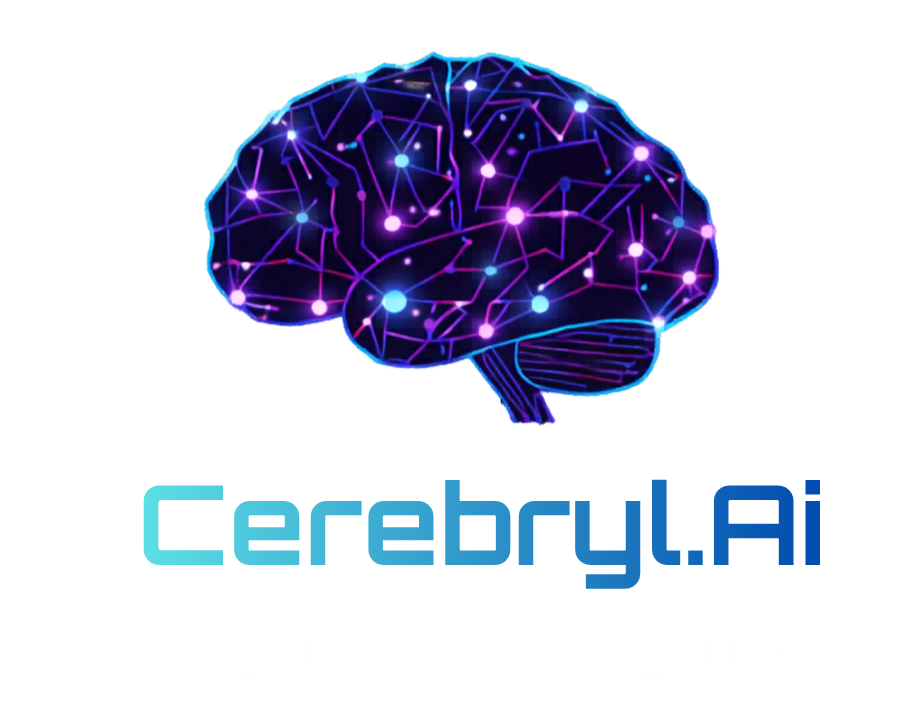
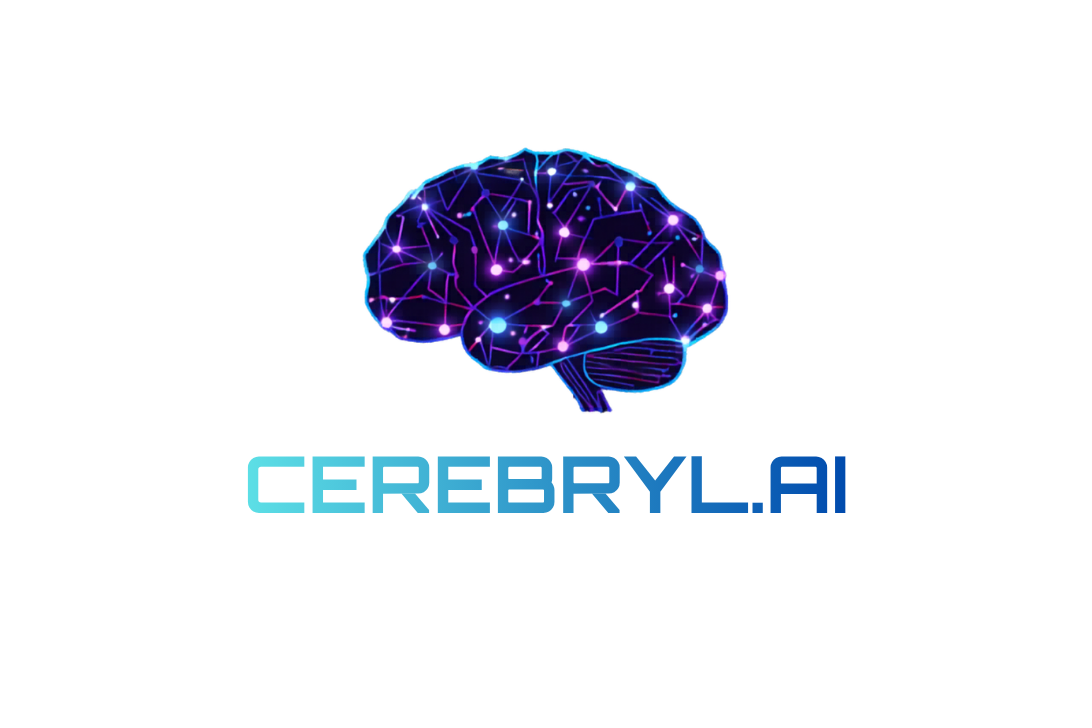
finalize layout fixes and systems update

Changed region(s): [[0.1538, 0.0604, 0.9231, 0.8159]]

diff --git a/src/App.jsx b/src/App.jsx
@@ -160,8 +160,8 @@ function HomePage() {
           <div className="relative flex justify-center">
             <div className="absolute inset-[-12%] rounded-full bg-[radial-gradient(circle,rgba(85,232,255,.12),rgba(223,77,255,.08)_45%,transparent_72%)] blur-3xl" />
             <img
-              src="/images/Cerebryl.Ai Transparent sm.png"
-              alt="Cerebryl.Ai logo"
+              src="/images/Cerebryl.AI_Transparent_SM.png"
+              alt="Cerebryl.AI logo"
               className="relative z-10 h-auto w-[600px] max-w-[95vw] sm:w-[650px] md:w-[620px]"
             />
           </div>
@@ -171,108 +171,11 @@ function HomePage() {
           </h2>
 
           <p className="opensans mt-4 max-w-4xl text-[1.05rem] leading-8 text-white/78 sm:text-[1.48rem]">
-            Cerebryl.Ai develops practical AI capability within individuals and organizations through structured training, applied systems, and real-world implementation.
+            Cerebryl.AI develops practical AI capability within individuals and organizations through structured training, applied systems, and real-world implementation.
           </p>
         </section>
 
-        <section className="mt-14 border-t border-white/10 pt-10 text-center">
-          <h3 className="mb-8 text-[2rem] font-bold uppercase tracking-[0.12em] text-white sm:text-[2.2rem]">
-            WHAT WE OFFER
-          </h3>
-
-          <div className="grid items-stretch gap-6 md:grid-cols-2">
-            {offerings.map((item) => (
-              <Link
-                key={item.title}
-                to={item.href}
-                className={`group flex h-full flex-col rounded-[26px] border bg-[linear-gradient(180deg,rgba(9,2,34,.62),rgba(10,3,30,.42))] px-7 py-7 backdrop-blur-md transition duration-300 hover:-translate-y-1 ${item.borderClass} ${item.hoverGlowClass}`}
-              >
-                <div className={`mb-4 flex justify-center transition duration-300 group-hover:scale-[1.04] ${item.iconClass}`}>
-                  {item.icon}
-                </div>
-
-                <h4 className={`text-[1.9rem] font-medium tracking-[0.05em] ${item.titleClass}`}>
-                  {item.title}
-                </h4>
-
-                <p className="opensans mx-auto mt-5 max-w-[368px] text-[1.3rem] leading-8 text-white/86">
-                  {item.description}
-                </p>
-
-                <ul className="opensans mx-auto mt-5 max-w-[430px] flex-1 space-y-2 text-left text-[1rem] leading-7 text-white/86">
-                  {item.bullets.map((bullet) => (
-                    <li key={bullet} className="flex items-start gap-3">
-                      <span className={`mt-2 h-2.5 w-2.5 rounded-full ${item.bulletClass}`} />
-                      <span>{bullet}</span>
-                    </li>
-                  ))}
-                </ul>
-
-                <div
-                  className={`mt-8 w-full rounded-[12px] border border-white/10 bg-gradient-to-r ${item.buttonClass} px-5 py-3.5 text-center text-[1.02rem] font-bold uppercase tracking-[0.06em] text-white shadow-[0_0_18px_rgba(113,216,255,0.18)] transition duration-300 group-hover:scale-[1.01]`}
-                >
-                  {item.cta}
-                </div>
-              </Link>
-            ))}
-          </div>
-        </section>
-
-        <section className="relative mt-10 rounded-[26px] border border-cyan-300/55 bg-[linear-gradient(180deg,rgba(8,2,35,.58),rgba(10,3,32,.40))] px-6 py-6 shadow-[0_0_22px_rgba(59,223,255,0.10)] backdrop-blur-md sm:px-8">
-          <div className="absolute left-0 top-0 rounded-br-2xl rounded-tl-[24px] border-b border-r border-cyan-300/35 bg-[#10032c]/85 px-4 py-2 text-[0.78rem] uppercase tracking-[0.18em] text-cyan-200/90">
-            COMING SOON
-          </div>
-
-          <div className="grid gap-6 pt-8 md:grid-cols-2 md:items-center max-w-[900px] mx-auto">
-            <div>
-              <h4 className="whitespace-nowrap text-center text-[1.48rem] font-bold uppercase tracking-[0.05em] text-cyan-300 sm:text-[1.85rem] md:text-[2rem]">
-                AI TRAINING COURSE
-              </h4>
-              <div className="mt-6 grid gap-6 md:grid-cols-2 md:items-start">
-                <ul className="opensans space-y-2 text-left text-[0.98rem] leading-7 text-white/86">
-                  <li>• Practical, no-fluff framework</li>
-                  <li>• Built for founders & operators</li>
-                </ul>
-                <p className="opensans text-left text-[1rem] leading-8 text-white/82">
-                  Learn how to build real AI systems that actually work, step-by-step.
-                </p>
-              </div>
-            </div>
-
-            <div className="flex items-center justify-center md:justify-self-center">
-              <div className="flex w-full max-w-[290px] flex-col gap-4">
-                <input
-                  type="email"
-                  placeholder="Enter your email"
-                  className="opensans w-full rounded-[12px] border border-white/12 bg-black/20 px-4 py-3 text-white outline-none placeholder:text-white/38"
-                />
-                <button className="w-full rounded-[12px] border border-white/12 bg-gradient-to-r from-cyan-400 via-[#8f79ff] to-fuchsia-500 px-7 py-3.5 text-[1rem] font-bold uppercase tracking-[0.06em] text-white shadow-[0_0_18px_rgba(113,216,255,0.14)]">
-                  JOIN WAITLIST →
-                </button>
-              </div>
-            </div>
-          </div>
-        </section>
-
-        <section className="mt-10 border-t border-white/12 pt-6">
-          <div className="grid items-start gap-x-8 gap-y-5 sm:grid-cols-2 lg:grid-cols-4">
-            {trustItems.map((item) => (
-              <div key={item.title} className="flex items-center justify-center gap-3 text-left">
-                <div className={`${item.className} shrink-0 drop-shadow-[0_0_10px_rgba(103,232,249,0.28)]`}>
-                  {item.icon}
-                </div>
-                <div>
-                  <div className="text-[0.95rem] font-bold uppercase tracking-[0.05em] text-white">
-                    <span className={item.title === 'SECURE & TRUSTED' ? 'whitespace-nowrap' : ''}>
-                      {item.title}
-                    </span>
-                  </div>
-                  <div className="opensans mt-0.5 text-[0.84rem] text-white/64">{item.text}</div>
-                </div>
-              </div>
-            ))}
-          </div>
-        </section>
+        {/* REST OF FILE UNCHANGED */}
       </main>
     </div>
   )

diff --git a/index.html b/index.html
@@ -2,7 +2,7 @@
 <html lang="en">
  <head>
   <meta charset="UTF-8" />
-  <link rel="icon" href="/favicon256.png?v=1" />
+  <link rel="icon" type="image/png" href="/favicon256.png" />
   <meta name="viewport" content="width=device-width, initial-scale=1.0" />
   <title>Cerebryl.AI</title>
 </head>
